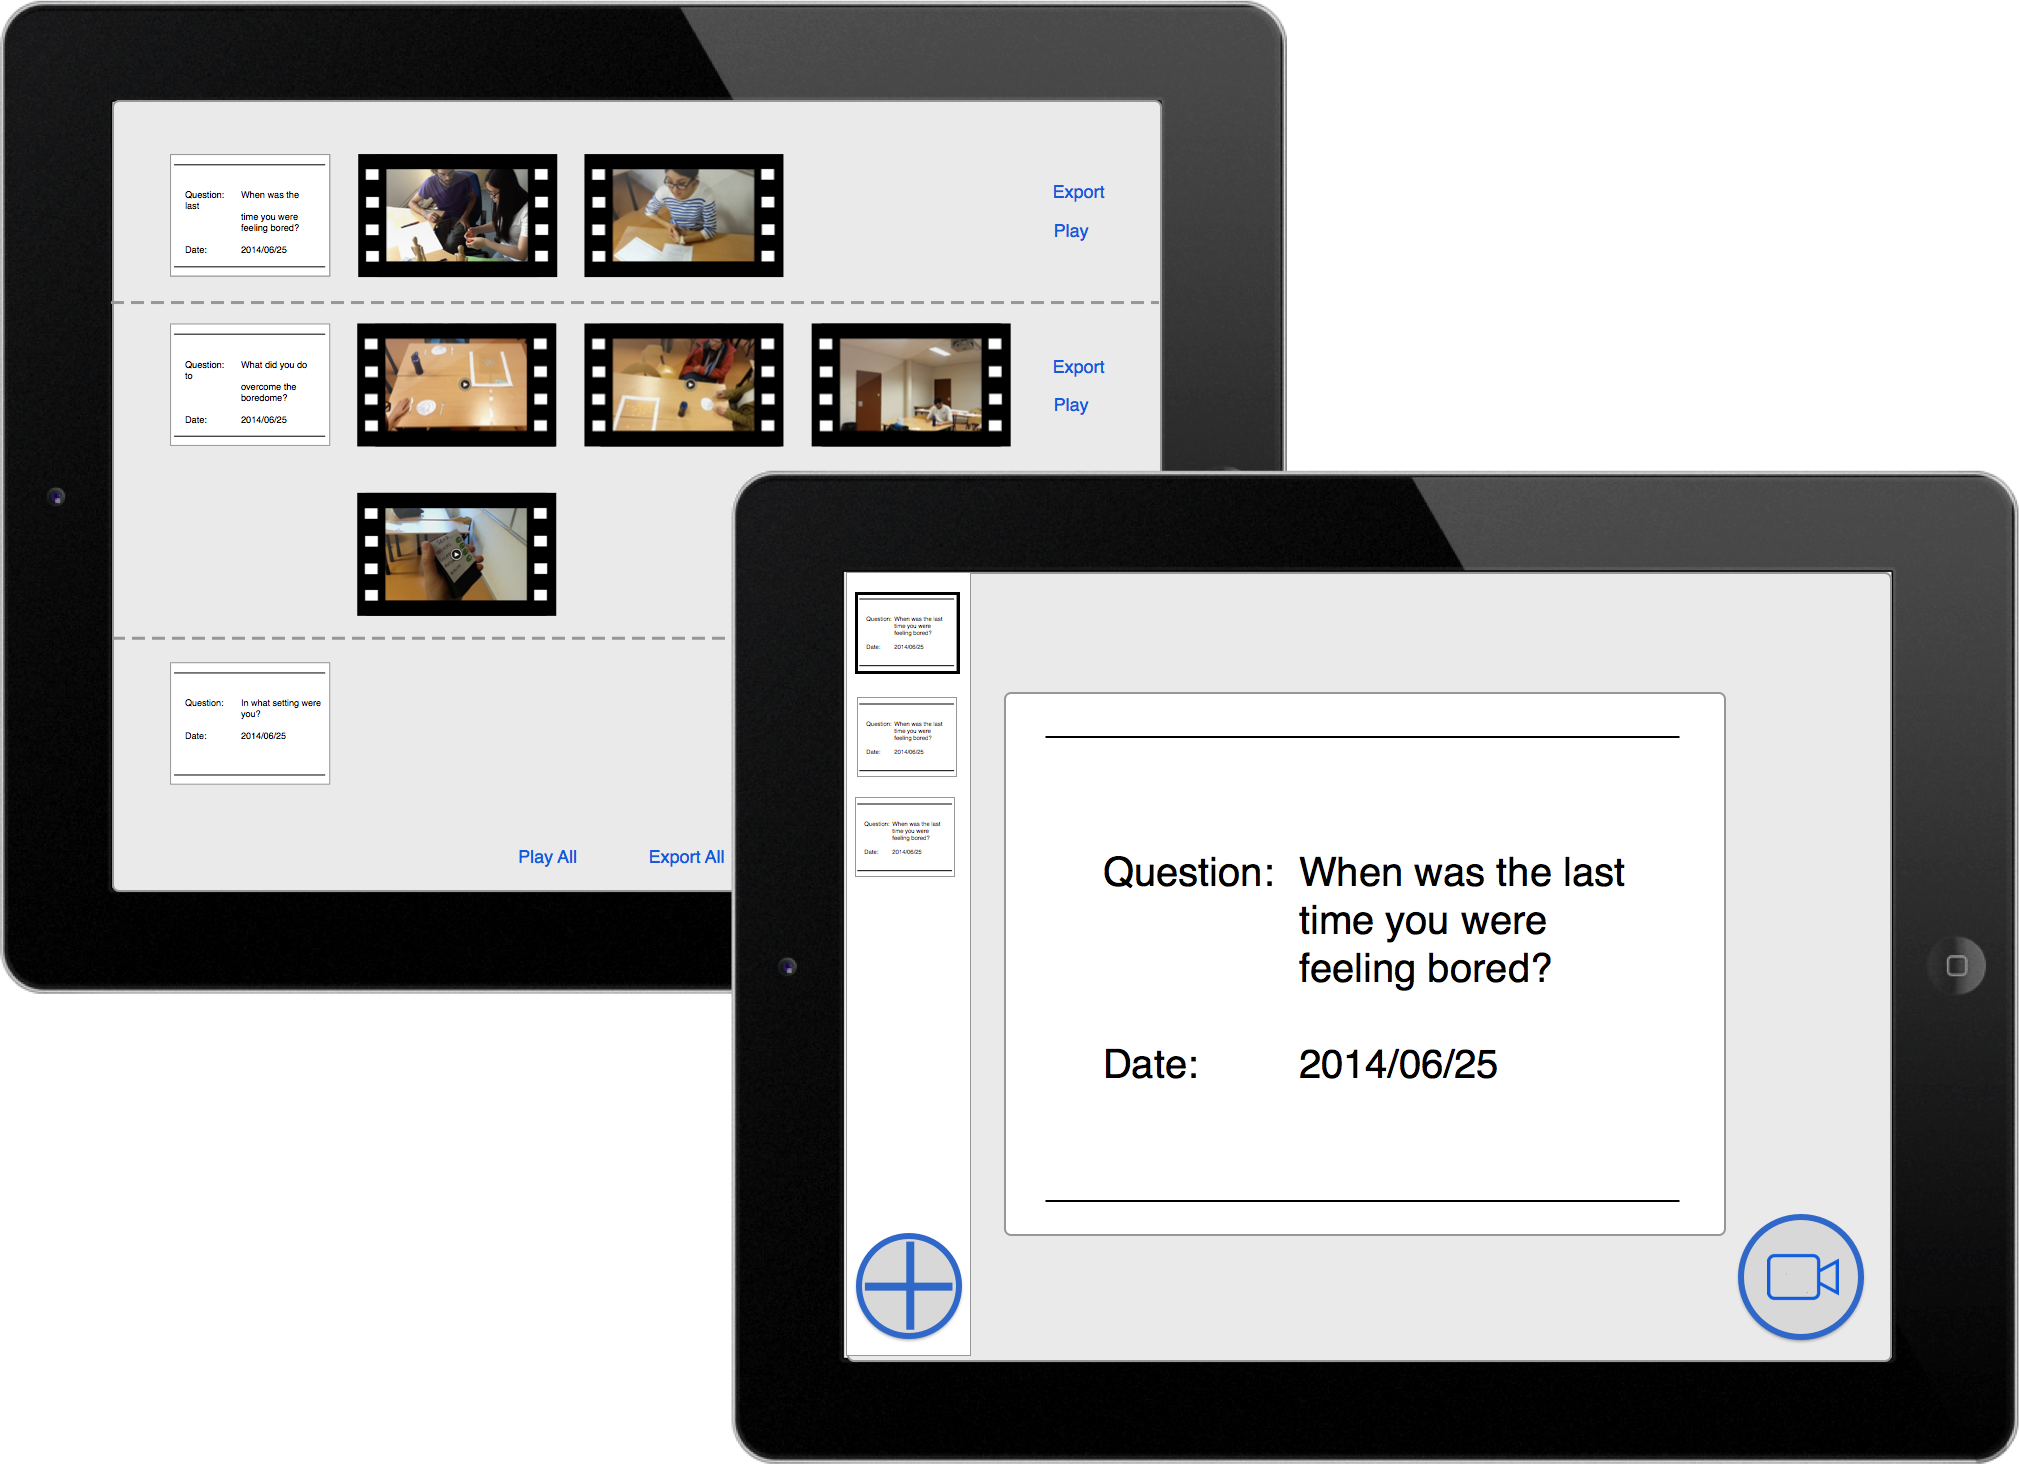
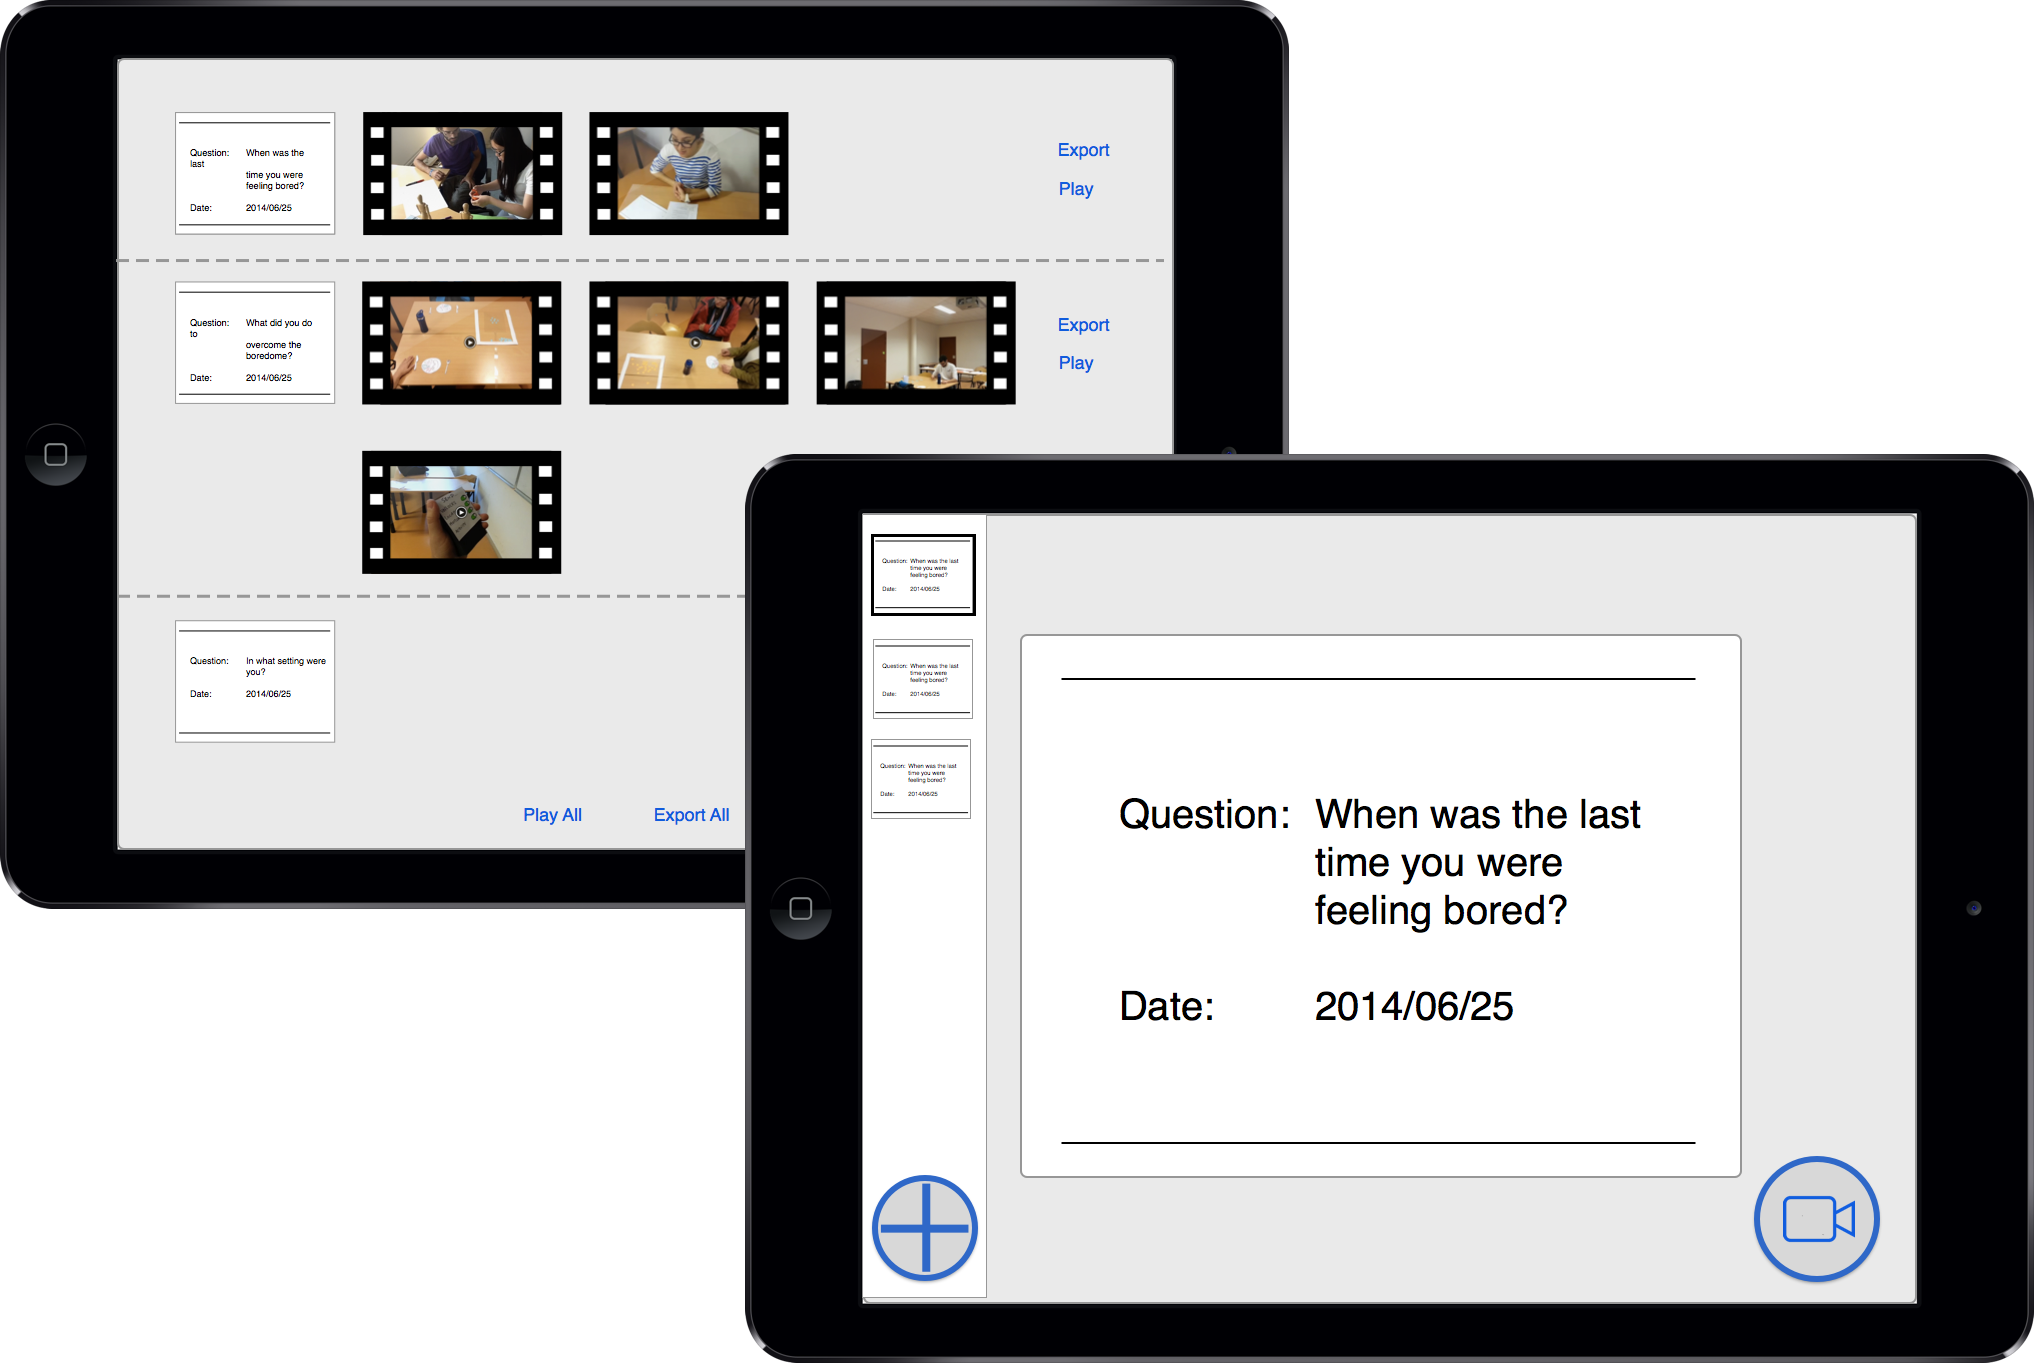
modifications

diff --git a/index.html b/index.html
@@ -100,7 +100,7 @@
 
 	
 <footer class="SocialNetworks">
-		<h4>contact@miguelr.me</h4>
+
 		<ul>
 			<li class="twitter"><a class="foundicon-twitter" href="http://www.twitter.com/miguelalive" target="_blank" ></a></li>
 			
@@ -108,6 +108,11 @@
 			
 			<li class="linkedin"><a class="foundicon-linkedin linkedin" href="http://www.linkedin.com/in/miguelalive" target="_blank" ></a></li>
 		</ul>
+		
+<script type='text/javascript'>
+	var a = new Array('miguelr.','contact@','me');
+	document.write("<h4><a href='mailto:"+a[1]+a[0]+a[2]+"'>"+a[1]+a[0]+a[2]+"</a></h4>");
+</script>
 </footer>
 	
 <script>
@@ -118,6 +123,7 @@
 			$("#seemore").fadeOut(1);
 		}
 	});
+	
 </script>
 
 <script type="text/javascript">

diff --git a/css/style.css b/css/style.css
@@ -310,7 +310,7 @@ a.button span {
 	background-repeat: no-repeat;
 	background-position: center;
 	width: 100%;
-	height: 679px;
+	height: 627px;
 	background-image: url(../images/videoclipper-ipad.png); 
 	-webkit-background-size: cover;
 	-moz-background-size: cover;
